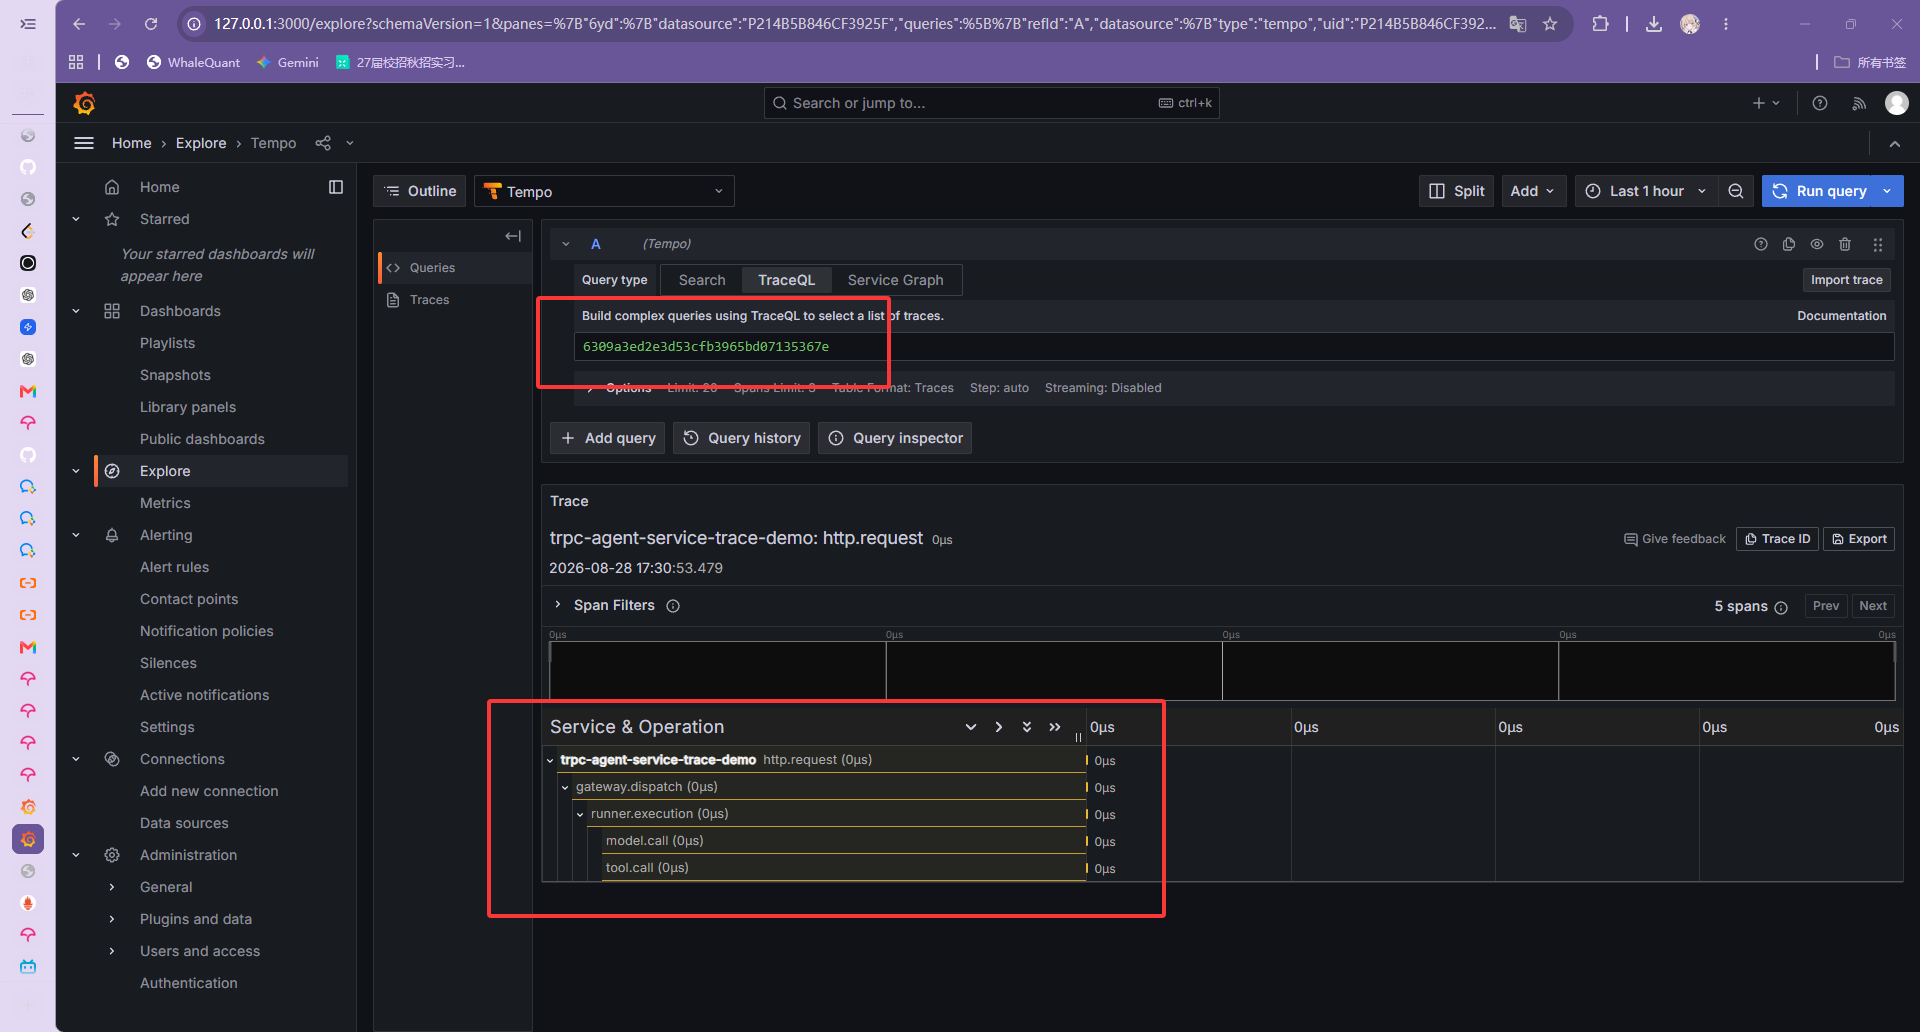
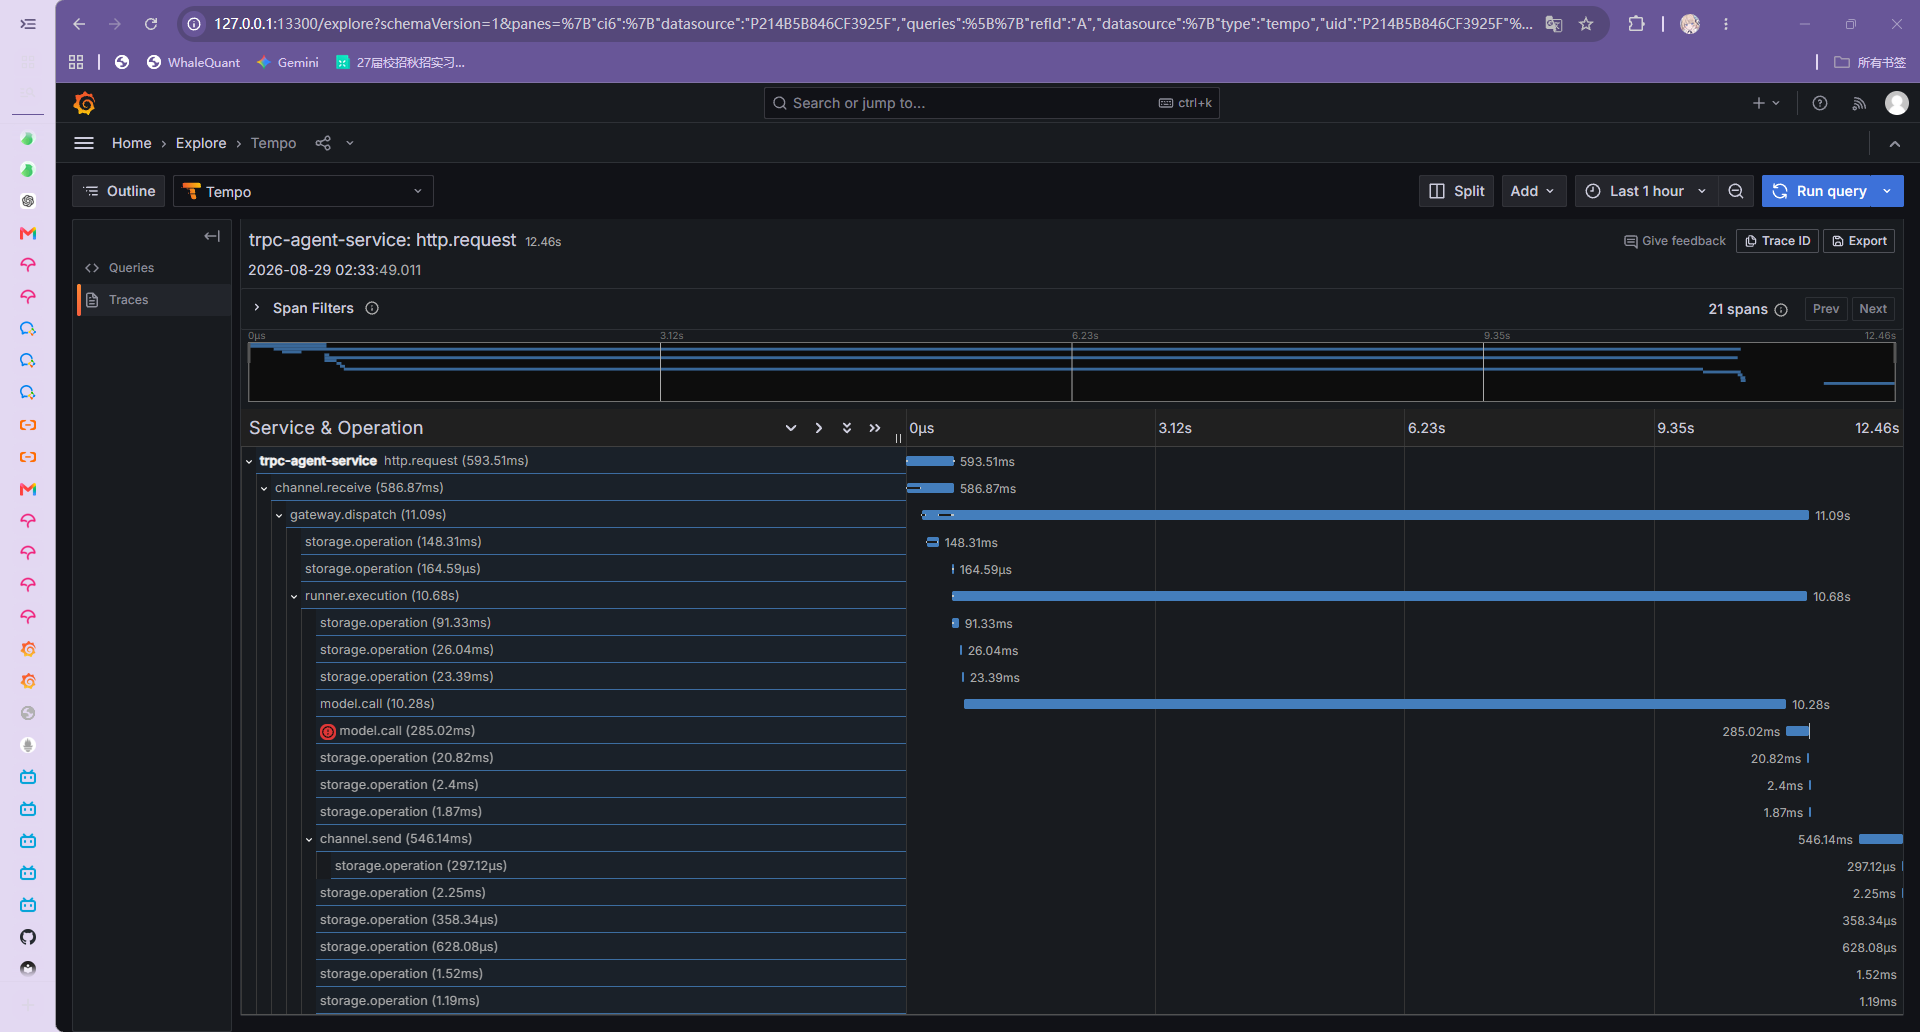
feat: use Responses streaming model adapter

diff --git a/trpcservice/bootstrap/responses_model.go b/trpcservice/bootstrap/responses_model.go
@@ -1,0 +1,152 @@
+package bootstrap
+
+import (
+	"bufio"
+	"bytes"
+	"context"
+	"encoding/json"
+	"fmt"
+	"net/http"
+	"strings"
+
+	trpcmodel "trpc.group/trpc-go/trpc-agent-go/model"
+)
+
+type responsesModel struct {
+	apiKey   string
+	endpoint string
+	model    string
+	client   *http.Client
+}
+
+func (m *responsesModel) Info() trpcmodel.Info { return trpcmodel.Info{Name: m.model} }
+func (m *responsesModel) GenerateContent(ctx context.Context, request *trpcmodel.Request) (<-chan *trpcmodel.Response, error) {
+	if ctx == nil {
+		return nil, fmt.Errorf("responses model context is required")
+	}
+	if request == nil {
+		return nil, fmt.Errorf("responses model request is required")
+	}
+	out := make(chan *trpcmodel.Response, 8)
+	go m.stream(ctx, request, out)
+	return out, nil
+}
+
+type responsesInputItem struct {
+	Role    string                 `json:"role"`
+	Content []responsesContentPart `json:"content"`
+}
+type responsesContentPart struct {
+	Type string `json:"type"`
+	Text string `json:"text"`
+}
+
+func (m *responsesModel) stream(ctx context.Context, request *trpcmodel.Request, out chan<- *trpcmodel.Response) {
+	defer close(out)
+	input := make([]responsesInputItem, 0, len(request.Messages))
+	for _, message := range request.Messages {
+		role := string(message.Role)
+		if role == "" {
+			role = string(trpcmodel.RoleUser)
+		}
+		text := message.Content
+		if text == "" {
+			for _, part := range message.ContentParts {
+				if part.Text != nil {
+					text += *part.Text
+				}
+			}
+		}
+		input = append(input, responsesInputItem{Role: role, Content: []responsesContentPart{{Type: "input_text", Text: text}}})
+	}
+	body, err := json.Marshal(map[string]any{
+		"model":   m.model,
+		"input":   input,
+		"store":   false,
+		"stream":  true,
+		"include": []string{"reasoning.encrypted_content"},
+	})
+	if err != nil {
+		m.emitError(out, err)
+		return
+	}
+	req, err := http.NewRequestWithContext(ctx, http.MethodPost, strings.TrimRight(m.endpoint, "/")+"/responses", bytes.NewReader(body))
+	if err != nil {
+		m.emitError(out, err)
+		return
+	}
+	req.Header.Set("Authorization", "Bearer "+m.apiKey)
+	req.Header.Set("Content-Type", "application/json")
+	client := m.client
+	if client == nil {
+		client = http.DefaultClient
+	}
+	resp, err := client.Do(req)
+	if err != nil {
+		m.emitError(out, err)
+		return
+	}
+	defer resp.Body.Close()
+	if resp.StatusCode < 200 || resp.StatusCode >= 300 {
+		m.emitError(out, fmt.Errorf("responses API returned status %d", resp.StatusCode))
+		return
+	}
+	scanner := bufio.NewScanner(resp.Body)
+	scanner.Buffer(make([]byte, 4096), 1024*1024)
+	var usage *trpcmodel.Usage
+	emittedText := false
+	for scanner.Scan() {
+		line := scanner.Text()
+		if !strings.HasPrefix(line, "data: ") {
+			continue
+		}
+		data := strings.TrimSpace(strings.TrimPrefix(line, "data: "))
+		if data == "" || data == "[DONE]" {
+			continue
+		}
+		var event struct {
+			Type     string `json:"type"`
+			Delta    string `json:"delta"`
+			Response struct {
+				Usage *struct {
+					InputTokens  int64 `json:"input_tokens"`
+					OutputTokens int64 `json:"output_tokens"`
+					TotalTokens  int64 `json:"total_tokens"`
+				} `json:"usage"`
+			} `json:"response"`
+		}
+		if json.Unmarshal([]byte(data), &event) != nil {
+			continue
+		}
+		if event.Type == "response.output_text.delta" && event.Delta != "" {
+			emittedText = true
+			if !sendResponse(ctx, out, &trpcmodel.Response{Object: "response.output_text.delta", IsPartial: true, Choices: []trpcmodel.Choice{{Delta: trpcmodel.Message{Role: trpcmodel.RoleAssistant, Content: event.Delta}}}}) {
+				return
+			}
+		}
+		if event.Type == "response.completed" && event.Response.Usage != nil {
+			u := event.Response.Usage
+			usage = &trpcmodel.Usage{PromptTokens: int(u.InputTokens), CompletionTokens: int(u.OutputTokens), TotalTokens: int(u.TotalTokens)}
+		}
+	}
+	if err := scanner.Err(); err != nil {
+		m.emitError(out, err)
+		return
+	}
+	terminal := &trpcmodel.Response{Object: "response", Done: true, Usage: usage}
+	if !emittedText {
+		terminal.Error = &trpcmodel.ResponseError{Message: "responses API completed without output text", Type: trpcmodel.ErrorTypeAPIError}
+	}
+	sendResponse(ctx, out, terminal)
+}
+func (m *responsesModel) emitError(out chan<- *trpcmodel.Response, err error) {
+	out <- &trpcmodel.Response{Done: true, Error: &trpcmodel.ResponseError{Message: err.Error(), Type: trpcmodel.ErrorTypeAPIError}}
+}
+func sendResponse(ctx context.Context, out chan<- *trpcmodel.Response, response *trpcmodel.Response) bool {
+	select {
+	case out <- response:
+		return true
+	case <-ctx.Done():
+		return false
+	}
+}

diff --git a/trpcservice/bootstrap/environment.go b/trpcservice/bootstrap/environment.go
@@ -38,7 +38,6 @@ import (
 	tenantmysql "github.com/XnLemon/trpc-agent-service/trpcservice/tenant/mysql"
 	tenantpostgres "github.com/XnLemon/trpc-agent-service/trpcservice/tenant/postgres"
 	trpcmodel "trpc.group/trpc-go/trpc-agent-go/model"
-	"trpc.group/trpc-go/trpc-agent-go/model/openai"
 	"trpc.group/trpc-go/trpc-agent-go/session"
 	"trpc.group/trpc-go/trpc-agent-go/session/inmemory"
 )
@@ -184,7 +183,7 @@ func NewFromEnvironment(ctx context.Context) (*Runtime, error) {
 		_ = delegateSessions.Close()
 		_ = runtimeStore.Close()
 		_ = db.Close()
-		return nil, ErrInvalidConfig
+		return nil, fmt.Errorf("%w: environment repositories: %v", ErrInvalidConfig, err)
 	}
 	auditWriter = metrics.WrapAuditWriter(auditWriter, config.telemetry)
 	wecomFactory, wecomWorker, err := environmentWeComComponents(config, channelRepo, tenantRepo, appRepo, runtimeStore, auditWriter)
@@ -192,21 +191,21 @@ func NewFromEnvironment(ctx context.Context) (*Runtime, error) {
 		_ = delegateSessions.Close()
 		_ = runtimeStore.Close()
 		_ = db.Close()
-		return nil, ErrInvalidConfig
+		return nil, fmt.Errorf("%w: wecom components: %v", ErrInvalidConfig, err)
 	}
 	secretRegistry, modelRegistry, backendRegistry, err := environmentRegistries(config, delegateSessions, runtimeStore)
 	if err != nil {
 		_ = delegateSessions.Close()
 		_ = runtimeStore.Close()
 		_ = db.Close()
-		return nil, ErrInvalidConfig
+		return nil, fmt.Errorf("%w: environment registries: %v", ErrInvalidConfig, err)
 	}
 	storageFactory, err := backend.NewRegistryStorageFactory(backendRegistry, secretRegistry)
 	if err != nil {
 		_ = delegateSessions.Close()
 		_ = runtimeStore.Close()
 		_ = db.Close()
-		return nil, ErrInvalidConfig
+		return nil, fmt.Errorf("%w: storage factory: %v", ErrInvalidConfig, err)
 	}
 	graph, err := NewWithDatabase(ctx, db, Config{
 		OwnDB:               true,
@@ -849,9 +848,9 @@ func (environmentModelFactory) New(ctx context.Context, input modelprofile.Model
 	if provider != "" && provider != defaultModelProvider {
 		return nil, fmt.Errorf("model factory provider %q is unsupported", input.Provider)
 	}
-	options := []openai.Option{openai.WithAPIKey(apiKey)}
-	if endpoint := strings.TrimSpace(input.Endpoint); endpoint != "" {
-		options = append(options, openai.WithBaseURL(endpoint))
+	endpoint := strings.TrimSpace(input.Endpoint)
+	if endpoint == "" {
+		endpoint = "https://api.openai.com/v1"
 	}
-	return openai.New(input.Model, options...), nil
+	return &responsesModel{apiKey: apiKey, endpoint: endpoint, model: input.Model}, nil
 }

diff --git a/trpcservice/bootstrap/responses_model_test.go b/trpcservice/bootstrap/responses_model_test.go
@@ -1,0 +1,66 @@
+package bootstrap
+
+import (
+	"context"
+	"net/http"
+	"net/http/httptest"
+	"testing"
+
+	trpcmodel "trpc.group/trpc-go/trpc-agent-go/model"
+)
+
+func TestResponsesModelStreamsOutputTextAndUsage(t *testing.T) {
+	server := httptest.NewServer(http.HandlerFunc(func(w http.ResponseWriter, r *http.Request) {
+		if r.URL.Path != "/v1/responses" || r.Header.Get("Authorization") != "Bearer test-key" {
+			t.Fatalf("unexpected request: %s %s", r.Method, r.URL.String())
+		}
+		w.Header().Set("Content-Type", "text/event-stream")
+		_, _ = w.Write([]byte("data: {\"type\":\"response.output_text.delta\",\"delta\":\"北\"}\n\n"))
+		_, _ = w.Write([]byte("data: {\"type\":\"response.output_text.delta\",\"delta\":\"京\"}\n\n"))
+		_, _ = w.Write([]byte("data: {\"type\":\"response.completed\",\"response\":{\"usage\":{\"input_tokens\":2,\"output_tokens\":3,\"total_tokens\":5}}}\n\n"))
+	}))
+	defer server.Close()
+
+	responses, err := (&responsesModel{apiKey: "test-key", endpoint: server.URL + "/v1", model: "gpt-5.6-sol"}).GenerateContent(context.Background(), &trpcmodel.Request{Messages: []trpcmodel.Message{{Role: trpcmodel.RoleUser, Content: "hello"}}})
+	if err != nil {
+		t.Fatal(err)
+	}
+	var got string
+	var usage *trpcmodel.Usage
+	count := 0
+	for response := range responses {
+		count++
+		if len(response.Choices) > 0 {
+			got += response.Choices[0].Delta.Content
+		}
+		usage = response.Usage
+		if response.Error != nil {
+			t.Fatalf("unexpected error: %v", response.Error)
+		}
+	}
+	if got != "北京" || count != 3 {
+		t.Fatalf("got text %q across %d responses", got, count)
+	}
+	if usage == nil || usage.TotalTokens != 5 {
+		t.Fatalf("unexpected usage: %#v", usage)
+	}
+}
+
+func TestResponsesModelRejectsEmptyCompletedResponse(t *testing.T) {
+	server := httptest.NewServer(http.HandlerFunc(func(w http.ResponseWriter, r *http.Request) {
+		w.Header().Set("Content-Type", "text/event-stream")
+		_, _ = w.Write([]byte("data: {\"type\":\"response.completed\",\"response\":{}}\n\n"))
+	}))
+	defer server.Close()
+	responses, err := (&responsesModel{endpoint: server.URL, model: "test"}).GenerateContent(context.Background(), &trpcmodel.Request{})
+	if err != nil {
+		t.Fatal(err)
+	}
+	var terminal *trpcmodel.Response
+	for response := range responses {
+		terminal = response
+	}
+	if terminal == nil || terminal.Error == nil {
+		t.Fatalf("expected empty response error, got %#v", terminal)
+	}
+}

diff --git a/docs/docs/issue-88-prometheus.md b/docs/docs/issue-88-prometheus.md
@@ -49,12 +49,11 @@ Collector 导出的名称和 labels 必须保持 `deploy/observability/grafana-d
 与 `deploy/observability/prometheus-rules.yml` 中的 `trpcservice_*` 查询兼容。指标的
 属性继续由 observability 白名单过滤，高基数或敏感值被丢弃/脱敏。
 
-## 本地验收证据（Mock 数据）
+## 验收证据
 
-以下截图证明本地的 metrics 和 trace 链路已经打通。截图均来自 localhost 上的
-Grafana、Prometheus、OTel Collector 和 Tempo；请求、延迟、token、cost、Runner、
-backend、delivery 以及 trace span 都是人工生成的 mock 数据，不代表生产流量或真实
-租户成本。
+Metrics 和 runtime dashboard 截图来自本地 mock 数据；Trace 截图来自测试服务器上的
+真实 WeCom 请求。租户 usage/cost 仍不应从 platform dashboard 推断，必须通过授权的
+AuditEvent 查询。
 
 ### 图 1：Metrics 采集
 
@@ -70,16 +69,19 @@ delivery 和 backend latency 等固定低基数聚合：
 
 ![图 2：Runtime dashboard mock 数据](assets/issue-88/runtime-dashboard.png)
 
-### 图 3：Trace 泳道
+### 图 3：真实 Trace 泳道
 
-Tempo Explore 中的测试 Trace ID 为 6309a3ed2e3d53cfb3965bd07135367e，可以看到
-http.request、gateway.dispatch、runner.execution、model.call 和 tool.call 的父子层级：
+Tempo Explore 中的真实服务器 Trace ID 为 `f9a3d27f6e711ff0eba6b098ebcc7db5`，时间为
+2026-08-29 02:33:49（CST），共 21 个 span。可以看到 `http.request`、
+`channel.receive`、`gateway.dispatch`、`runner.execution`、`model.call`、
+`storage.operation` 和 `channel.send` 的父子层级：
 
-![图 3：Tempo trace mock 泳道](assets/issue-88/trace-explore.png)
+![图 3：真实 WeCom 请求的 Tempo trace 泳道](assets/issue-88/trace-explore.png)
 
-Trace 截图同样是 mock span。真实 WeCom/Telegram 请求需要在服务进程配置 OTLP endpoint
-后，通过 Grafana Explore → Tempo 按时间或 Trace ID 查询；异步 Outbox channel.send
-的跨进程 parent context 持久化由 follow-up Issue #91 跟踪。
+该 trace 对应的 `message_event` 已进入 `replied`，`reply_outbox` 已进入 `sent`。
+真实 WeCom/Telegram 请求需要在服务进程配置 OTLP endpoint 后，通过 Grafana Explore →
+Tempo 按时间或 Trace ID 查询；异步 Outbox channel.send 的跨进程 parent context
+持久化由 follow-up Issue #91 跟踪。
 
 ## 一键化部署配置清单
 
@@ -124,4 +126,5 @@ Grafana 默认 datasource 会自动 provision：Prometheus 与 Tempo；dashboard
 - [x] bootstrap OTLP 环境变量边界和默认 no-op
 - [x] Collector、Prometheus、Grafana 本地配置
 - [x] endpoint、配置边界和 exporter failure focused tests
-- [ ] 用真实服务流量完成一次本地 dashboard 验证（需要数据库和模型凭据）
+- [x] 用真实服务流量完成一次 Trace 验证（测试服务器 WeCom 请求）
+- [ ] 用真实服务流量完成一次本地 metrics/dashboard 验证（需要数据库和模型凭据）
